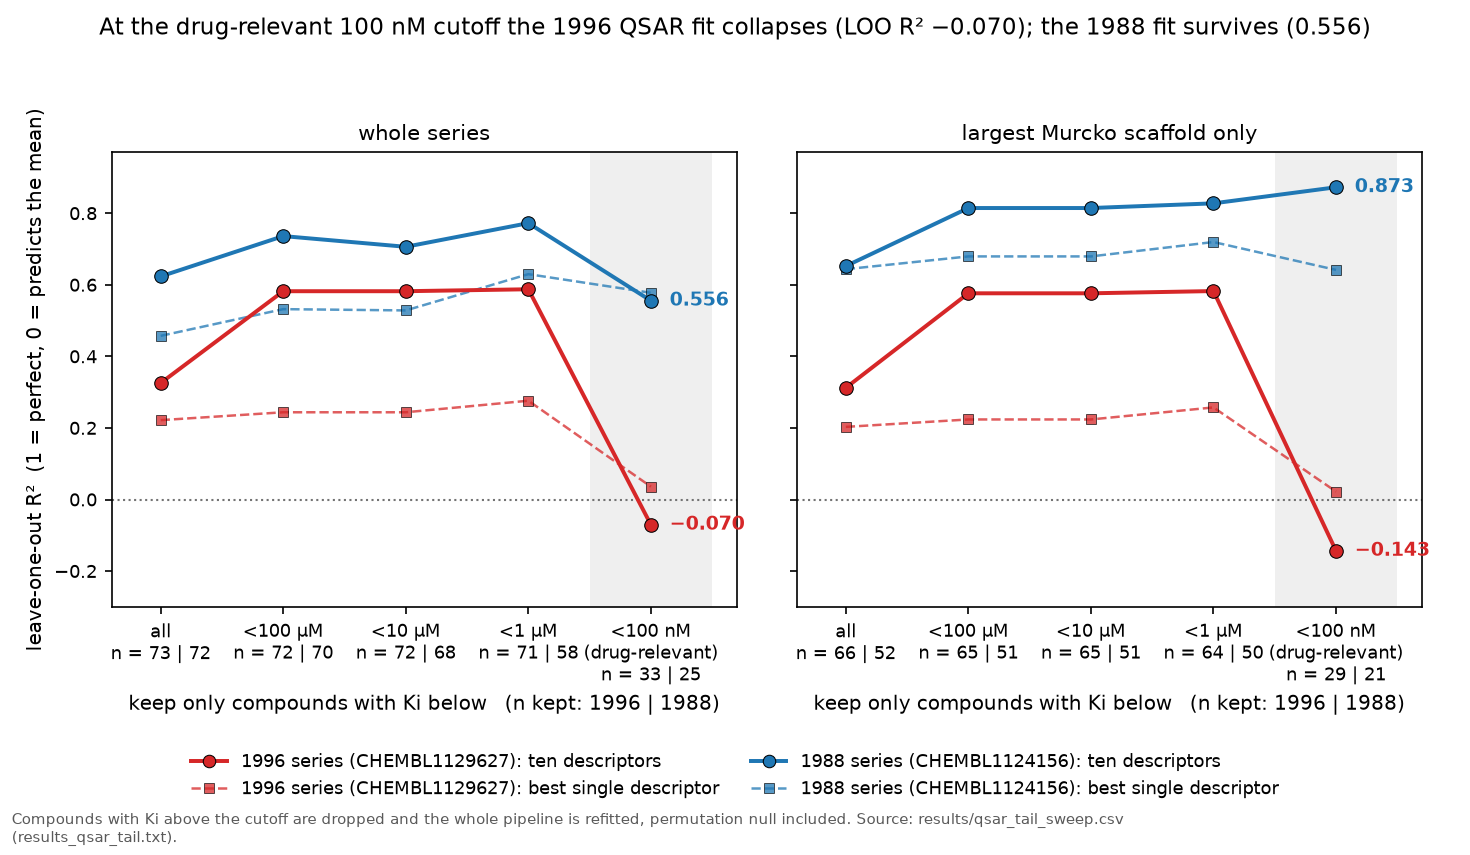
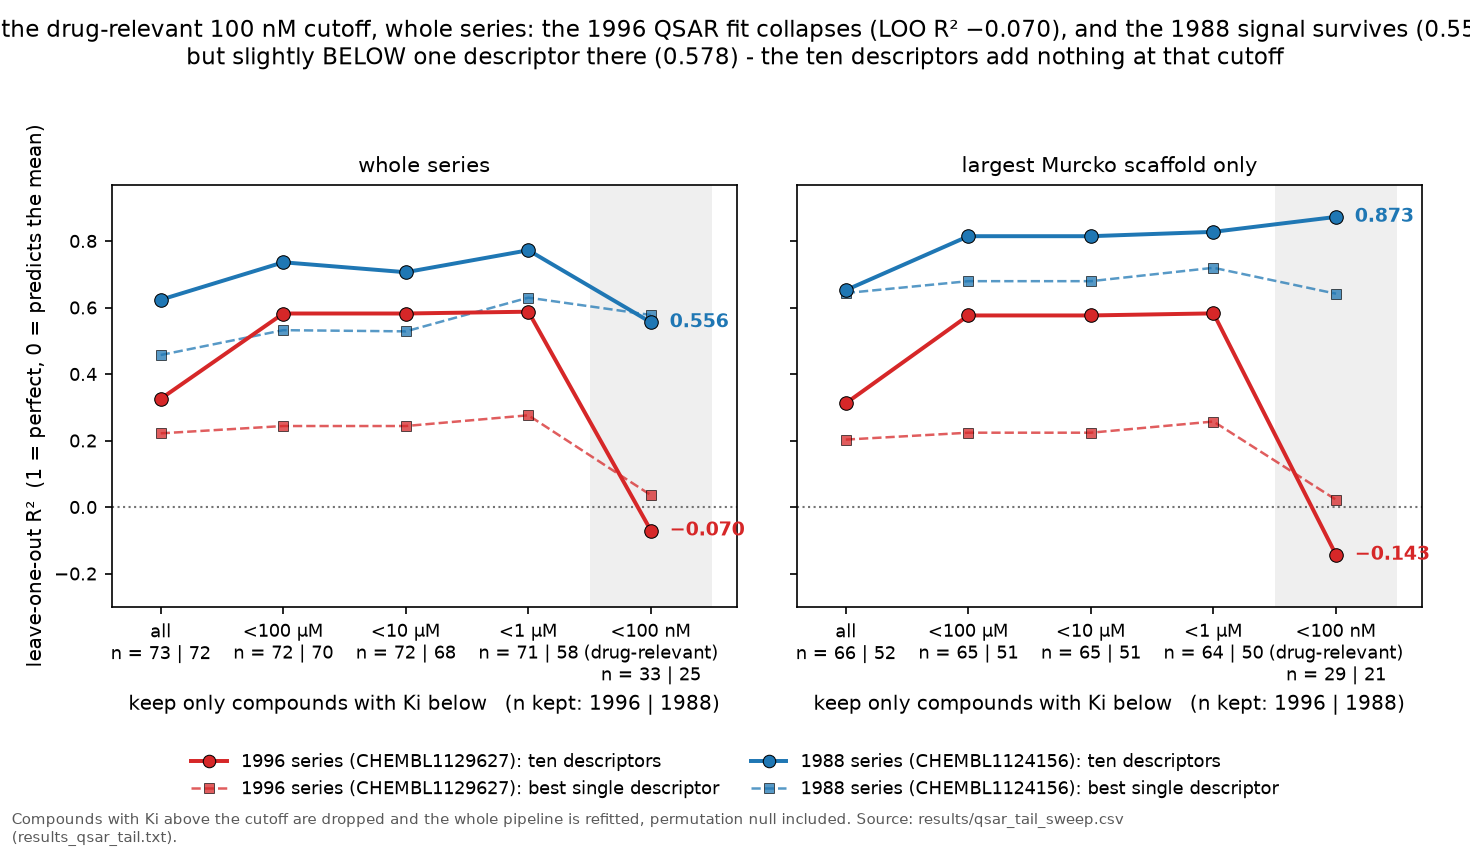
Say that the 1988 tail fit is BELOW one descriptor, not just 'survives'
The vision pass flagged that this suptitle read as a win for the ten-descriptor
model at the drug-relevant 100 nM cutoff. It is not one: at that cutoff the
whole-series fit is R2 0.556 while molecular weight alone reaches 0.578, so the
other nine descriptors add nothing - which is the actual finding of the tail
sweep. 'Survives' described the signal, not the model, and set beside the 1996
collapse it read as the opposite of what the sweep shows.

Also scoped the claim to the whole-series panel, because the largest-scaffold
panel disagrees (1988 = 0.873 there, 1996 = -0.143), and a suptitle over two
panels must not describe only one.

Numbers read from results/qsar_tail_sweep.csv (loocv_r2 / best_single_r2 at
cutoff 100 nM).

diff --git a/scripts/make_figures.py b/scripts/make_figures.py
@@ -442,8 +442,17 @@ def fig_qsar_tail():
                               label=f"{label}: best single descriptor"))
     r96 = sweep[(SERIES[0][0], "whole series")][100.0]["r2"]
     r88 = sweep[(SERIES[1][0], "whole series")][100.0]["r2"]
-    fig.suptitle("At the drug-relevant 100 nM cutoff the 1996 QSAR fit collapses "
-                 f"(LOO R\u00b2 {_fmt(r96, 3)}); the 1988 fit survives ({r88:.3f})",
+    b88 = sweep[(SERIES[1][0], "whole series")][100.0]["single"]
+    # Honesty (2026-11-15): the old title said the 1988 fit "survives", full
+    # stop. It does survive as a signal (R2 = 0.556 > 0), but the ten-descriptor
+    # model is WORSE than molecular weight alone at that cutoff (0.556 vs 0.578),
+    # so "survives" without that clause reads as a win for the descriptor model
+    # when the tail sweep actually says the opposite. Both numbers are in the
+    # title now.
+    fig.suptitle("At the drug-relevant 100 nM cutoff, whole series: the 1996 QSAR "
+                 f"fit collapses (LOO R\u00b2 {_fmt(r96, 3)}), and the 1988 signal "
+                 f"survives ({r88:.3f})\nbut slightly BELOW one descriptor there "
+                 f"({b88:.3f}) - the ten descriptors add nothing at that cutoff",
                  fontsize=FS_SUPTITLE)
     _finish(fig, "Compounds with Ki above the cutoff are dropped and the whole pipeline is "
                  "refitted, permutation null included. Source: results/qsar_tail_sweep.csv "
